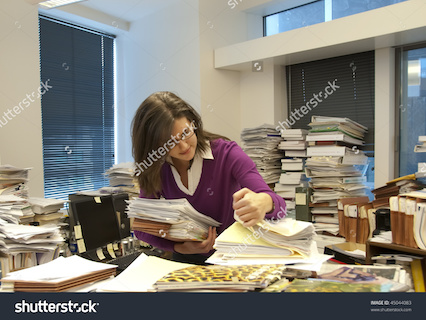
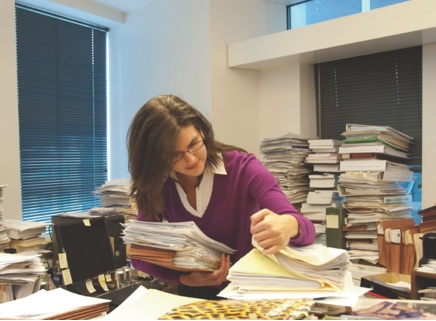
更换图片&调整订单页样式

diff --git a/app/assets/stylesheets/application.scss b/app/assets/stylesheets/application.scss
@@ -523,6 +523,7 @@ p.text-footer2 {
 .info{
   float: left;
   margin-left: 13%;
+  width: 29%;
 }
 
 .intro-text{
